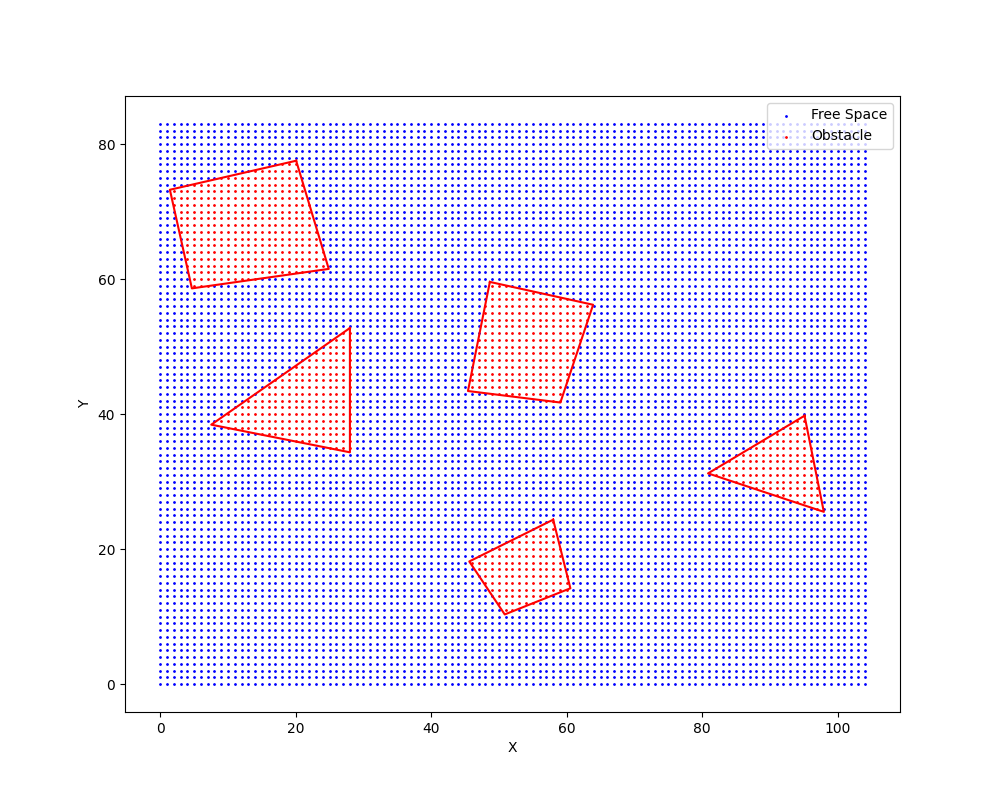
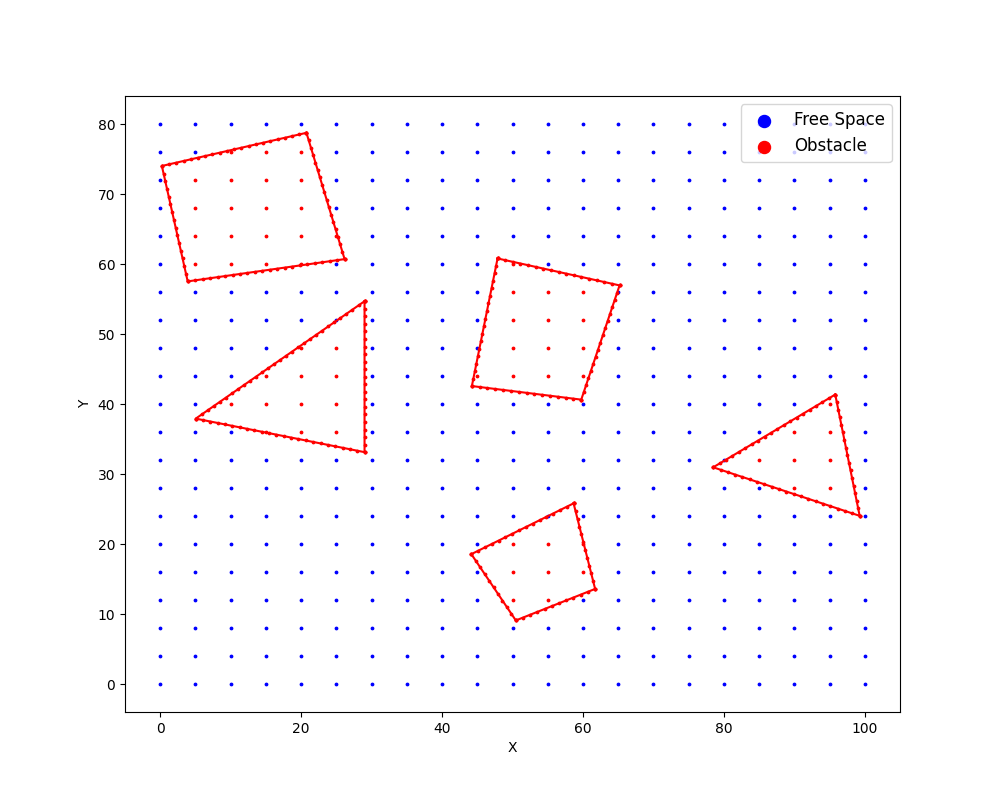
added the sample_point method and modified the distance between coordinates

diff --git a/original_polygon.py b/original_polygon.py
@@ -52,6 +52,50 @@ def expand_poly(points, sd):
     return Qi_x_list, Qi_y_list, new_points
 
 
+# Sample points along the edges of a polygon and add them to the list of vertices
+def sample_points(x, y):
+    # Initialize empty lists to store the additional sample points
+    xadd = []
+    yadd = []
+
+    # Convert the input x and y coordinates to numpy arrays
+    xs = np.asarray(x)
+    ys = np.asarray(y)
+
+    # Loop through each edge of the polygon (from each point to the next)
+    for i in range(len(xs) - 1):
+        if xs[i + 1] == xs[i]:  # Avoid division by zero
+            xtemp = np.repeat(xs[i], int(abs(ys[i + 1] - ys[i])))
+            ytemp = np.linspace(ys[i], ys[i + 1], int(abs(ys[i + 1] - ys[i])))
+        else:
+            # Calculate the slope of the current edge
+            slope = (ys[i + 1] - ys[i]) / (xs[i + 1] - xs[i])
+            # Calculate the length of the edge
+            length = math.sqrt(((ys[i + 1] - ys[i]) ** 2) + ((xs[i + 1] - xs[i]) ** 2))
+
+            if slope > 1e5 or slope < -1e5:  # Check if the slope is very large
+                # Calculate the inverse slope
+                inverse_slope = (xs[i + 1] - xs[i]) / (ys[i + 1] - ys[i])
+                # Generate sample points along the y direction
+                ytemp = np.linspace(ys[i], ys[i + 1], int(length))
+                xtemp = inverse_slope * (ytemp - ys[i]) + xs[i]
+            else:
+                # Generate sample points along the x direction
+                xtemp = np.linspace(xs[i], xs[i + 1], int(length))
+                ytemp = slope * (xtemp - xs[i]) + ys[i]
+
+        # Append the sample points to the lists
+        xadd = np.append(xadd, xtemp)
+        yadd = np.append(yadd, ytemp)
+
+    # Append the additional sample points to the original coordinates
+    xs = np.asanyarray(np.append(xs, xadd))
+    ys = np.asanyarray(np.append(ys, yadd))
+
+    # Return the updated x and y coordinates
+    return xs, ys
+
+
 # Determine if a point is inside a polygon using the ray-casting algorithm.
 def is_in_poly(p, points):
     x = np.zeros(len(points))
@@ -77,40 +121,46 @@ def is_in_poly(p, points):
 
 # Generate a grid of points and determine if each point is inside the given polygon.
 def draw_poly(obs, sd):
-    new_all_points = []
-
-    for points in obs:
-        x, y, new_points = expand_poly(points, sd)
-        new_all_points.append(new_points)
-
     # Generate initial x and y coordinates for the grid
-    x_init = np.arange(0, 105, 1)
-    y_init = np.arange(0, 84, 1)
+    x_init = np.arange(0, 105, 5)
+    y_init = np.arange(0, 84, 4)
 
     # Create a meshgrid from the initial x and y coordinates
     x_p, y_p = np.meshgrid(x_init, y_init)
     x_p = np.ravel(x_p)
     y_p = np.ravel(y_p)
+    length = len(x_p)
 
     # Initialize an array to store the classification values
     p_value = np.zeros_like(x_p)
 
+    new_all_points = []
+    xs_list = []
+    ys_list = []
+    for points in obs:
+        x, y, new_points = expand_poly(points, sd)
+        xs, ys = sample_points(x, y)
+        new_all_points.append(new_points)
+        x_p = np.append(x_p, xs)
+        y_p = np.append(y_p, ys)
+        p_s = np.ones_like(xs)
+        p_value = np.append(p_value, p_s)
+
     # Loop through each grid point to determine if it is inside any of the polygons
-    for i in range(len(x_p)):
+    for i in range(length):
         p = [x_p[i], y_p[i]]
         for new_points in new_all_points:
             if is_in_poly(p, new_points):
                 p_value[i] = 1
                 break
 
-
     # 绘制图形
     plt.figure(figsize=(10, 8))
     for new_points in new_all_points:
         plt.plot(new_points[:, 0], new_points[:, 1], 'r-')
-    plt.scatter(x_p[p_value == 0], y_p[p_value == 0], c='blue', label='Free Space', s=1)
-    plt.scatter(x_p[p_value == 1], y_p[p_value == 1], c='red', label='Obstacle', s=1)
-    plt.legend()
+    plt.scatter(x_p[p_value == 0], y_p[p_value == 0], c='blue', label='Free Space', s=3)
+    plt.scatter(x_p[p_value == 1], y_p[p_value == 1], c='red', label='Obstacle', s=3)
+    plt.legend(fontsize='large', markerscale=5)
     plt.xlabel('X')
     plt.ylabel('Y')
     plt.show()

diff --git a/driver.py b/driver.py
@@ -1,11 +1,12 @@
 from original_polygon import *
 
-
-points1 = [[5, 71], [18,74], [21,64], [7, 62]]
+# 使用示例
+points1 = [[5, 71], [18, 74], [21, 64], [7, 62]]
 points2 = [[15, 40], [25, 47], [25, 38]]
 points3 = [[49, 46], [51, 56], [60, 54], [57, 45]]
 points4 = [[88, 32], [93, 35], [94, 30]]
 points5 = [[50, 17], [56, 20], [57, 16], [52, 14]]
-obs = [points1, points2, points3, points4, points5]
-sd = 3
-draw_poly(obs, sd)
+
+obs_list = [points1, points2, points3, points4, points5]
+sd = 4
+draw_poly(obs_list, sd)
